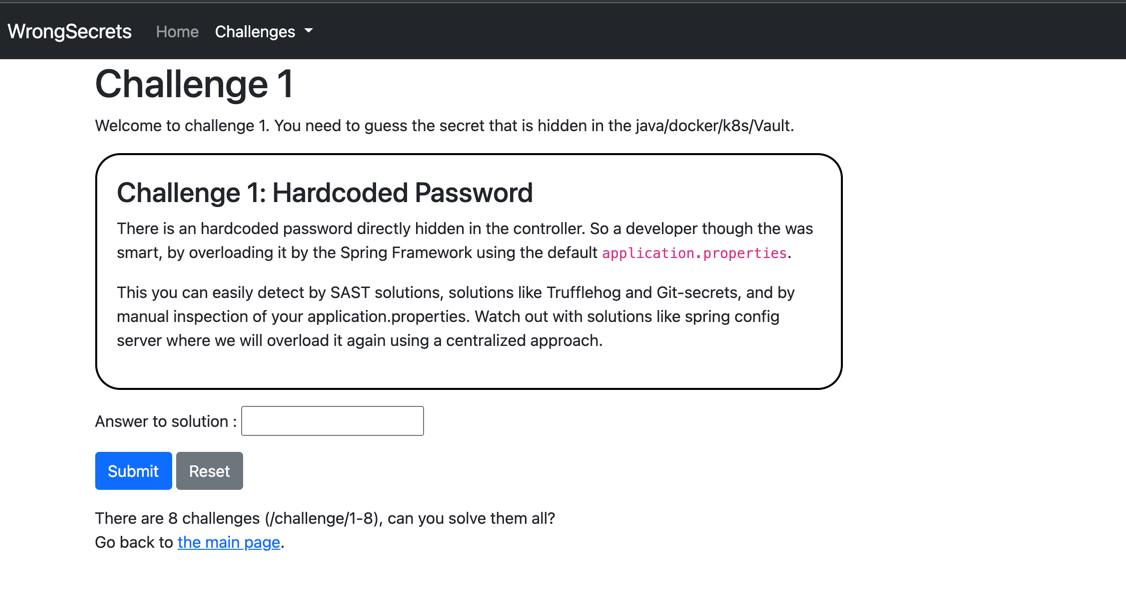
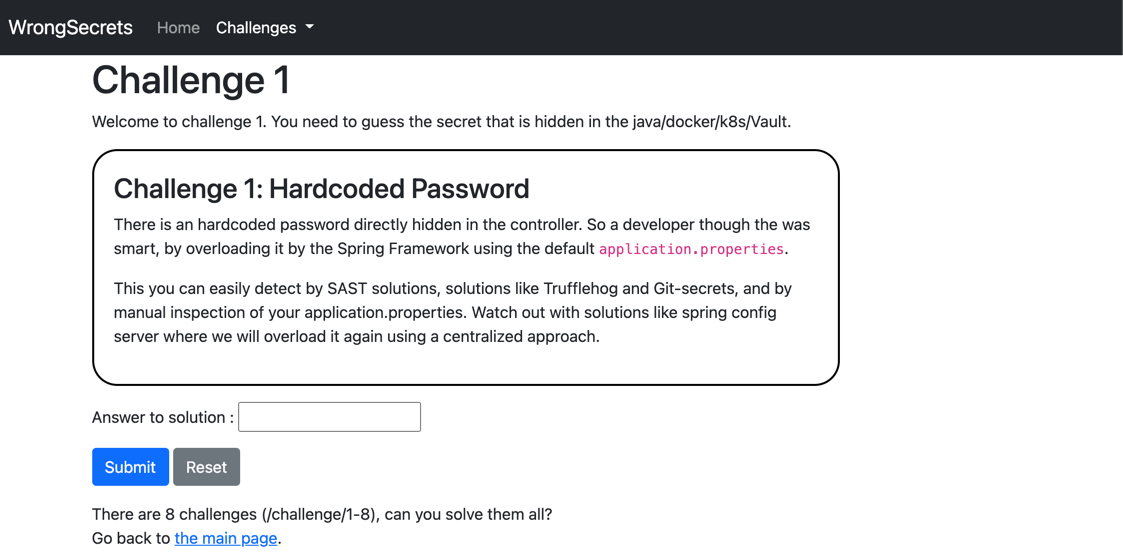
Updated README for AWS and updated screenshot\n

Changed region(s): [[0.0623, 0.2732, 0.748, 1.0], [0.0, 0.0, 1.0, 0.3036]]

diff --git a/src/main/resources/templates/challenge.html b/src/main/resources/templates/challenge.html
@@ -62,7 +62,6 @@
     There are 10 challenges (/challenge/1-10), can you solve them all? <br/>
     Go back to <a href="/">the main page</a>.
 </div>
-<script th:src="@{/webjars/jquery/3.2.1/jquery.js}"></script>
 <script th:src="@{/webjars/popper.js/2.9.3/umd/popper.min.js}"></script>
 <script th:src="@{/webjars/bootstrap/5.1.2/js/bootstrap.min.js}"></script>
 </body>

diff --git a/aws/README.md b/aws/README.md
@@ -30,8 +30,7 @@ Note-II: The cluster you create, has its access bound to the public IP of the cr
 5. Do `terraform apply`. Note: the apply will take 10 to 20 minutes depending on the speed of the AWS backplane.
 6. When creation is done, do `aws eks update-kubeconfig --region eu-west-1 --name wrongsecrets-exercise-cluster --kubeconfig ~/.kube/wrongsecrets`
 7. Do `export KUBECONFIG=~/.kube/wrongsecrets`
-
-TODO: continue here with adding SM/SSM and actual deployment instructions, as for now: follow ../README.md its instructions on how to deploy the wrongsecrets application to AWS EKS.
+8. Run `./k8s-vault-aws-start.sh`
 
 Your EKS cluster should be visible in [EU-West-1](https://eu-west-1.console.aws.amazon.com/eks/home?region=eu-west-1#/clusters) by default. Want a different region? You can modify `variables.tf` or input it directly using the `region` variable in plan/apply.
 
